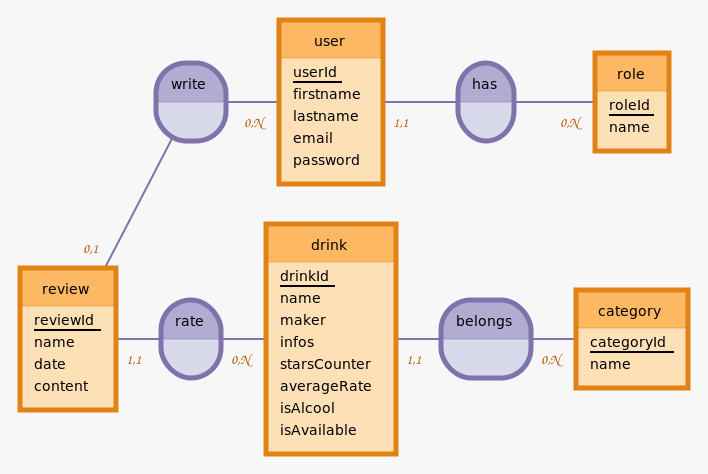
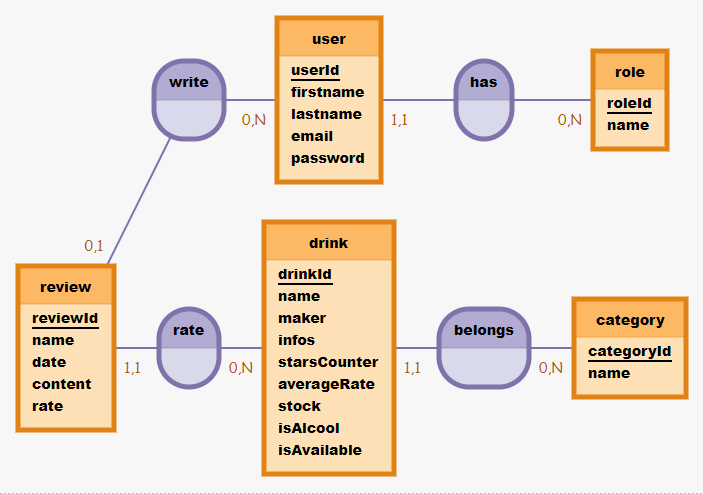
update doc

diff --git a/public/javascript/dashboard.js b/public/javascript/dashboard.js
@@ -1,7 +1,7 @@
 const dashboard = {
     // ELEMENTS
     allBtnUpdate : document.querySelectorAll('.btnSubmit'),
-    allBtnDelete : document.querySelectorAll('.btnClose'),
+    allBtnDelete : document.querySelectorAll('.btnDelete'),
     allCheckbox : document.querySelectorAll('.isAvailable'),
     btnAddDrink : document.querySelector('.btnAdd'),
     modal : document.querySelector('.modal'),

diff --git a/public/css/style.css b/public/css/style.css
@@ -196,3 +196,13 @@ input {
 	justify-content: space-between;
 	align-items: center;
 }
+
+.btnDelete {
+	padding: 1em;
+	background-color: red;
+	color: var(--white);
+	font-weight: bold;
+	border: none;
+	border-radius: 4px;
+	cursor: pointer;
+}

diff --git a/Docs/4-MCD-MLD-MPD.md b/Docs/4-MCD-MLD-MPD.md
@@ -14,9 +14,9 @@ user : userId, firstname, lastname, email, password
 has, 11 user, 0N role
 role : roleId, name
 
-review: reviewId, name, date, content
+review: reviewId, name, date, content, rate
 rate, 0N drink, 11 review
-drink : drinkId, name, maker, infos, starsCounter, averageRate, isAlcool, isAvailable
+drink : drinkId, name, maker, infos, starsCounter, averageRate, stock, isAlcool, isAvailable
 belongs, 11 drink, 0N category
 category : categoryId, name
 ```
@@ -27,10 +27,10 @@ category : categoryId, name
 
 ```
 category (_id_, name)
-drink (_id_, name, maker, infos, starsCounter, averageRate, isAlcool, isAvailable, #category_id)
-review (_id_, name, date, content, #drink_id, #user_id)
+drink (_id_, name, maker, infos, starsCounter, averageRate ,stock, isAlcool, isAvailable, #category_id)
+review (_id_, name, date, content, rate, #drink_id, #user_id)
 role (_id_, name)
-user (_id_, firstname, lastname, email, password, #role_id)
+user (_id_, firstname, lastname, email, pwd, #role_id)
 ```
 
 ## MPD
@@ -45,9 +45,9 @@ role: roleId, name
 
 
 :
-review: reviewId, name, date, content, #userId->user->userId, #drinkId->drink->drinkId
+review: reviewId, name, date, content, rate, #userId->user->userId, #drinkId->drink->drinkId
 :
-drink: drinkId, name, maker, infos, starsCounter, averageRate, isAlcool, isAvailable, #categoryId->category->categoryId
+drink: drinkId, name, maker, infos, starsCounter, averageRate, stock, isAlcool, isAvailable, #categoryId->category->categoryId
 :
 category: categoryId, name
 :

diff --git a/Docs/3-Use-cases.md b/Docs/3-Use-cases.md
@@ -5,8 +5,6 @@
 | Qui ?    | Quoi ?                              | Pourquoi ?                           |
 | -------- | ----------------------------------- | ------------------------------------ |
 | visiteur | afficher la page d'accueil          | voir toutes les boissons disponibles |
-| visiteur | bouton peu importe/avec/sans alcool | trier les boissons                   |
-| visiteur | bouton dark mode                    | affiche la page en dark mode         |
 | visiteur | clique sur une boisson              | ouvre toutes les infos de la boisson |
 | visiteur | bouton 'Stars'                      | Indiquer qu'on a aimé                | 
 | visiteur | bouton 'Review'                     | Poster un commentaire et une note    | 

diff --git a/Docs/2-Wireframe.md b/Docs/2-Wireframe.md
@@ -2,12 +2,20 @@
 
 ## Pages
 
-Pour commencer, le projet doit démarrer sur 3 pages :
+Pour commencer, le projet devait démarrer sur 3 pages :
+
 - La page d'accueil qui doit présenter la liste des boissons
 - La page de connexion pour l'administrateur
 - Le dashboard de l'administrateur permettant le CRUD des boissons
 
+2 pages ont été ajoutées pour faciliter la gestions des modales et éviter de plus nombreux fichiers javascript en Front.
+
+- La page de chaque boisson
+- La page de chaque boisson vue par l'admin pour les modifications
+
 ## Visuel
+
+Le wireframe a été réalisé sur les pages de départ prévues initialement.
 
 ![Wireframe](images/wireframe.png)
 

diff --git a/Docs/6-Intégration.md b/Docs/6-Intégration.md
@@ -3,4 +3,14 @@
 ## Home Page 
 ![Home Page](images/homePage.gif)
 
+## Drink Page
+![Drink Page](images/DrinkPage.gif)
+
+## Login Page only for Admin
+![Login Page](images/LoginPage.png)
+
+## Dashboard admin
+![Login Page](images/Dashboard.gif)
+
+
 [Précédent](5-Mood-Board.md) | [Accueil](0-Sommaire.md) |
